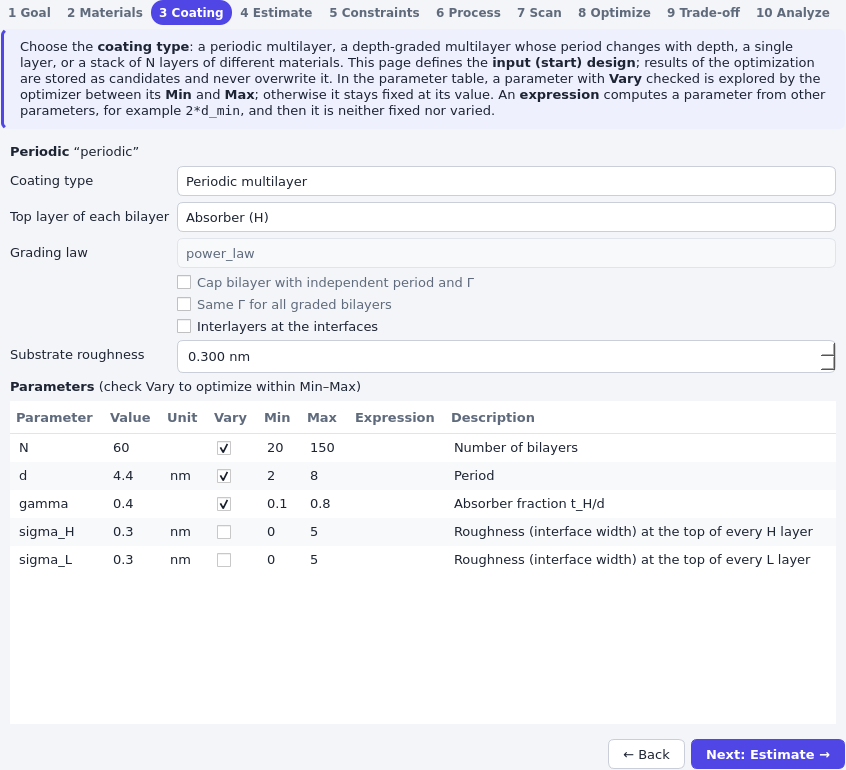
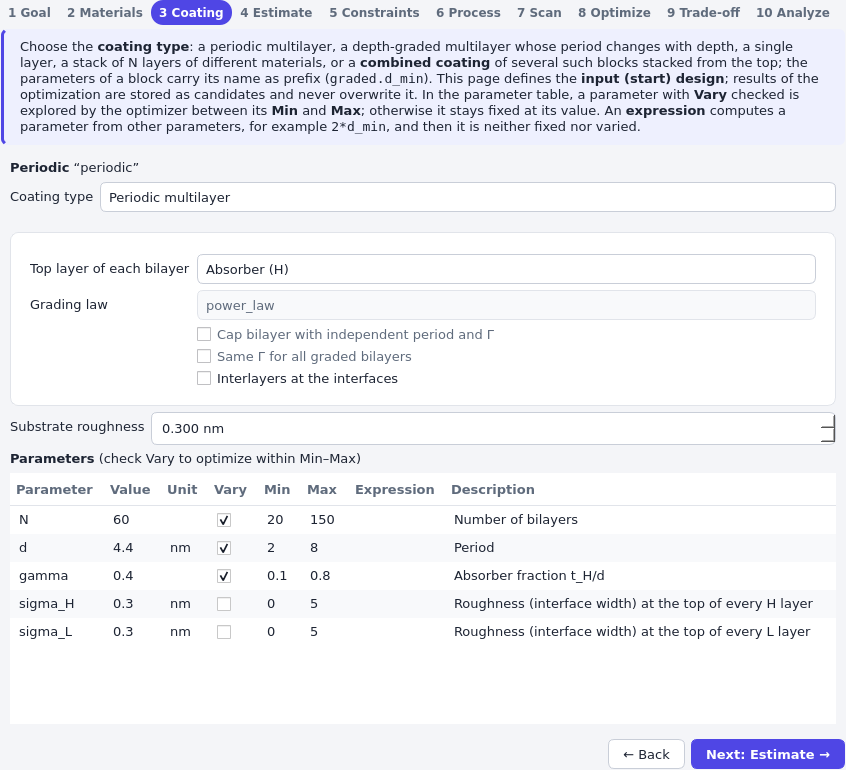
Document combined coatings and polish the block options (#40)
User-guide topic "Combined coatings" (library and GUI) with screenshots,
architecture and GUI design docs, help text of the design Coating step.
Options that do not apply to the selected coating or block are shown
unchecked.

diff --git a/docs/guide/screenshots/design.py b/docs/guide/screenshots/design.py
@@ -400,3 +400,45 @@ def design_graded_tradeoff() -> None:
     _wait(window)
     save(window, "design_graded_tradeoff")
     save(window.tradeoff_plot, "design_graded_tradeoff_plot")
+
+
+def _combined() -> "MainWindow":
+    """Window with the combined coating of the guide topic."""
+    from xstack.core.materials import get
+    from xstack.core.structure import Composite, Mirror, Periodic
+    from xstack.core.structure.coatings import DepthGraded, NLayer
+    from xstack.design.project.commands import set_mirror
+
+    window = _window(_wizard("periodic", "W/Si", "Combined Pt/C and W/Si mirror"))
+    coating = Composite.create(
+        [
+            DepthGraded.create(get("Pt"), get("C"), N=10, d_min=3.0, d_max=6.0, name="ptc"),
+            NLayer.create(
+                [get(m) for m in ("B4C", "Mo", "Si", "Ru", "C")],
+                [2.0, 3.0, 4.0, 2.0, 3.0],
+                name="mid",
+            ),
+            Periodic.create(get("W"), get("Si"), N=20, d=4.0, name="wsi"),
+        ]
+    )
+    window.controller.execute(set_mirror(Mirror(coating, get("Si"), substrate_roughness=0.3)))
+    pump(0.8)
+    return window
+
+
+@screenshot
+def design_combined_coating() -> None:
+    """Coating step with a combined coating and the periodic block selected."""
+    window = _combined()
+    _step(window, "Coating")
+    window.coating_page.select_block("wsi")
+    pump(0.5)
+    save(window.step_tabs, "design_combined_coating")
+
+
+@screenshot
+def design_combined_materials() -> None:
+    """Materials step with the roles grouped by block."""
+    window = _combined()
+    _step(window, "Materials")
+    save(window.step_tabs, "design_combined_materials")

diff --git a/src/xstack/gui/design/steps/coating.py b/src/xstack/gui/design/steps/coating.py
@@ -35,8 +35,10 @@ class CoatingPage(common.CoatingPage):
 
     help_text: ClassVar[str] = (
         "Choose the <b>coating type</b>: a periodic multilayer, a depth-graded multilayer "
-        "whose period changes with depth, a single layer, or a stack of N layers of different "
-        "materials. This page defines the <b>input (start) design</b>; results of the "
+        "whose period changes with depth, a single layer, a stack of N layers of different "
+        "materials, or a <b>combined coating</b> of several such blocks stacked from the top; "
+        "the parameters of a block carry its name as prefix (<tt>graded.d_min</tt>). This page "
+        "defines the <b>input (start) design</b>; results of the "
         "optimization are stored as candidates and never overwrite it. In the parameter table, "
         "a parameter with <b>Vary</b> checked is explored by the optimizer between its "
         "<b>Min</b> and <b>Max</b>; otherwise it stays fixed at its value. An "

diff --git a/src/xstack/gui/common/coating.py b/src/xstack/gui/common/coating.py
@@ -681,10 +681,12 @@ class CoatingPage(StepPage):
         self.law_combo.setEnabled(graded)
         self.cap_check.setEnabled(graded)
         self.constant_gamma_check.setEnabled(graded)
+        self.cap_check.setChecked(isinstance(target, DepthGraded) and target.cap)
+        self.constant_gamma_check.setChecked(
+            isinstance(target, DepthGraded) and has_constant_gamma(target)
+        )
         if isinstance(target, DepthGraded):
             self.law_combo.setCurrentText(target.law)
-            self.cap_check.setChecked(target.cap)
-            self.constant_gamma_check.setChecked(has_constant_gamma(target))
         self.layers_box.setVisible(isinstance(target, NLayer))
         if isinstance(target, NLayer):
             self._show_layers(target)

diff --git a/tests/gui/common/test_coating_blocks.py b/tests/gui/common/test_coating_blocks.py
@@ -269,3 +269,15 @@ def test_fit_application(qtbot: QtBot) -> None:
     assert mirror is not None
     assert isinstance(mirror.coating, Composite)
     assert mirror.coating.block("wsi").top == "L"  # type: ignore[attr-defined]
+
+
+def test_options_of_other_types_are_unchecked(qtbot: QtBot) -> None:
+    editor = Editor(qtbot, combined_state())
+    editor.page.select_block("ptc")
+    editor.page.constant_gamma_check.setChecked(True)
+    editor.page.select_block("wsi")
+    assert not editor.page.constant_gamma_check.isEnabled()
+    assert not editor.page.constant_gamma_check.isChecked()
+    assert not editor.page.cap_check.isChecked()
+    editor.page.select_block("ptc")
+    assert editor.page.constant_gamma_check.isChecked()

diff --git a/docs/guide/topics/combined_coatings.md b/docs/guide/topics/combined_coatings.md
@@ -1,0 +1,115 @@
+# Combined coatings
+
+Some mirrors are not one regular multilayer: a depth-graded section may sit on a periodic one, a
+few single layers may separate two multilayers, or a capping layer may protect the top. A
+*combined coating* stacks several coatings, its *blocks*, from the top down. Each block is an
+ordinary coating (periodic, depth-graded, single layer or layer stack) with its own parameters and
+materials. The example on this page has three blocks:
+
+1. `ptc`: 10 bilayers of a depth-graded Pt/C multilayer on top,
+2. `mid`: five single layers B<sub>4</sub>C, Mo, Si, Ru and C,
+3. `wsi`: 20 bilayers of a periodic W/Si multilayer above the substrate.
+
+## In the library
+
+{py:class}`~xstack.core.structure.coatings.composite.Composite` combines the blocks. Their names
+must be unique identifiers, because they become the prefix of the block's parameters and material
+roles:
+
+```python
+import numpy as np
+
+from xstack.core.materials import get
+from xstack.core.physics import reflectivity
+from xstack.core.structure import Composite, Mirror, Periodic
+from xstack.core.structure.coatings import DepthGraded, NLayer
+from xstack.core.units import deg
+
+coating = Composite.create(
+    [
+        DepthGraded.create(get("Pt"), get("C"), N=10, d_min=3.0, d_max=6.0, name="ptc"),
+        NLayer.create(
+            [get(m) for m in ("B4C", "Mo", "Si", "Ru", "C")], [2.0, 3.0, 4.0, 2.0, 3.0], name="mid"
+        ),
+        Periodic.create(get("W"), get("Si"), N=20, d=4.0, name="wsi"),
+    ]
+)
+mirror = Mirror(coating, get("Si"), substrate_roughness=0.3)
+print(list(coating.parameters)[:4])
+print({role: m.name for role, m in coating.materials.items() if role.startswith("wsi")})
+print({name: len(layers) for name, layers in coating.layers_by_block().items()})
+
+stack = mirror.stack()
+r = reflectivity(stack, 8048.0, np.linspace(deg(0.1), deg(3.0), 300))
+print(f"{len(stack.layers)} layers, maximum reflectivity {r.max():.2f}")
+```
+
+The parameters are named `ptc.N`, `ptc.d_min`, …, `wsi.d`, and the material roles `ptc.H`,
+`mid.M3`, `wsi.L`. Everything that works with a coating works with a combined one: parameters are
+varied with `Mirror.with_parameter`, optimizers and fits see all parameters, density parameters
+are named after the prefixed role (`wsi.rho_H`), and the deposition time and the layer
+constraints act on the layers of all blocks.
+
+An expression may refer to the parameters of another block. Here the largest period of the graded
+section follows the period of the periodic section:
+
+```python
+mirror = mirror.with_parameter("wsi.d", vary=True, min=3.5, max=4.5)
+mirror = mirror.with_parameter("ptc.d_max", expr="1.5 * wsi.d")
+print(mirror.parameters.evaluate()["ptc.d_max"])
+```
+
+### Editing the blocks
+
+The editing methods return a modified copy and keep the settings (value, vary, bounds, expression)
+of all parameters of the other blocks:
+
+| Method | Effect |
+|---|---|
+| `with_block(name, block)` | Replace a block, e.g. by a coating of another type. |
+| `insert_block(index, block)` | Insert a block at a position from the top. |
+| `remove_block(name)` | Remove a block; expressions that refer to it become fixed values. |
+| `move_block(name, index)` | Move a block. |
+| `rename_block(name, new_name)` | Rename a block, its parameters, and the references in expressions. |
+| `with_material(role, material)` | Change the material of a prefixed role, e.g. `"wsi.H"`. |
+
+`block(name)` returns a block with the current settings, so a block is modified like any coating
+and put back with `with_block`:
+
+```python
+from xstack.core.structure import SingleLayer
+
+coating = mirror.coating
+wsi = coating.block("wsi").with_interlayers(True)
+coating = coating.with_block("wsi", wsi).with_material("wsi.interlayer_H_on_L", get("WSi2"))
+coating = coating.insert_block(0, SingleLayer.create(get("B4C"), t=2.0, name="cap"))
+coating = coating.rename_block("mid", "glue")
+print(coating.block_names())
+print(coating.parameters["wsi.d"].vary, coating.parameters["ptc.d_max"].expr)
+```
+
+The Bragg estimate (`BraggOutline`) needs a single periodic or depth-graded coating; for a combined
+coating it leaves the start values unchanged.
+
+## In the applications
+
+On the **Coating** step of xstack-design (and the **Structure** step of xstack-fit), choose the
+coating type *Combined coating (blocks)*. The current coating becomes the first block.
+
+![Coating step with a combined coating](../images/design_combined_coating.png)
+
+- **Blocks (from the top)** lists the blocks. *Add block* inserts a block of the chosen type below
+  the selected one, *Duplicate* copies the selected block, *Remove* deletes it, and *▲ Up* / *▼ Down*
+  move it. The sketch next to the list shows the blocks with their number of layers and thickness;
+  clicking a block selects it.
+- Below, **Block name**, **Block type**, the options (top layer, grading law, cap, same Γ,
+  interlayers) and the layer table belong to the selected block.
+- The parameter table shows the parameters of all blocks; *Show: Selected block* limits it to the
+  selected one.
+- The **Materials** step lists the roles grouped by block, with material, density and density
+  parameter per role.
+
+![Materials step with the roles grouped by block](../images/design_combined_materials.png)
+
+Choosing a single coating type again converts the selected block and drops the others; *Undo*
+restores them.

diff --git a/docs/gui_design.md b/docs/gui_design.md
@@ -116,7 +116,8 @@ primary button variant.
 - **Materials**: *Optical constants* above the table selects the provider of δ and β for the whole
   project (Henke up to 30 keV with xraylib above, the default; Henke; Chantler/NIST FFAST; xraylib; each
   also as photoabsorption only), stored in the project file; then a table of the material of each
-  coating role and of the substrate (bilayer coatings
+  coating role and of the substrate (for a combined coating, a bold heading row per block with the
+  block-prefixed roles below it, e.g. `wsi.H`; bilayer coatings
   with *Interlayers at the interfaces* enabled also list both interlayer roles; *(none)* means no
   interlayer, and choosing a material gives an interlayer of zero thickness a start thickness of
   0.5 nm), with density (editable)
@@ -125,7 +126,13 @@ primary button variant.
   formula, density), and a plot of δ (solid) and β (dashed) for the materials in use, within the energy
   range of the provider.
 - **Coating**: coating type (Periodic multilayer, Depth-graded multilayer, Single layer, Layer stack (N
-  layers)); top layer of each bilayer (absorber H or spacer L); grading law for depth-graded coatings; a
+  layers), Combined coating (blocks)). For a combined coating, *Blocks (from the top)* lists the blocks
+  (number, name, type, materials) with *Add block* (menu of the block types; inserted below the
+  selection), *Duplicate*, *Remove*, *▲ Up*, *▼ Down* and a sketch of the blocks (band height by
+  thickness, labels with layers and thickness; a click selects the block); *Block name* and *Block type*
+  and the options and layer table below belong to the selected block; *Show* (All blocks / Selected
+  block) filters the parameter table by the block prefix. Choosing a single type converts the selected
+  block. Options: top layer of each bilayer (absorber H or spacer L); grading law for depth-graded coatings; a
   cap bilayer with its own period and Γ; *Same Γ for all graded bilayers* (ties `gamma_bottom` to
   `gamma_top` by an expression; unchecked, Γ changes linearly with depth); *Interlayers at the
   interfaces* (off by default; off, the interlayer thicknesses are zero and hidden in the parameter

diff --git a/docs/architecture_core.md b/docs/architecture_core.md
@@ -315,7 +315,13 @@ role raises `CoatingBuildError`; `Coating.without_material(role)` removes an opt
 Grading laws (`grading_laws` registry: `power_law`, `linear`) define the period of each bilayer of a
 depth-graded coating. Γ is interpolated linearly from `gamma_top` to `gamma_bottom`.
 
-Composite coatings cover adhesion, barrier, and overcoat layers without a dedicated class.
+Composite coatings (*combined coatings* in the GUI) cover adhesion, barrier, and overcoat layers and
+sections of different types (e.g. a depth-graded section on a periodic one) without a dedicated
+class. Their material roles carry the block prefix as well (`cap.H`), and expressions may refer to
+other blocks. The parameters of the composite are authoritative; `block(name)` returns a block with
+them. `with_block`, `insert_block`, `remove_block`, `move_block` and `rename_block` edit the block list
+and keep the settings of all other parameters (rebuilding a composite keeps the settings of every
+parameter name that still exists); `layers_by_block` returns the layers per block.
 `DepthGraded` with `cap=True` adds a cap bilayer with its own period and Γ.
 
 ### 3.5 Targets

diff --git a/docs/guide/index.md b/docs/guide/index.md
@@ -35,6 +35,7 @@ quickstart_fit_library
 
 topics/design_multiple_targets
 topics/design_depth_graded
+topics/combined_coatings
 topics/design_tolerances
 ```
 
